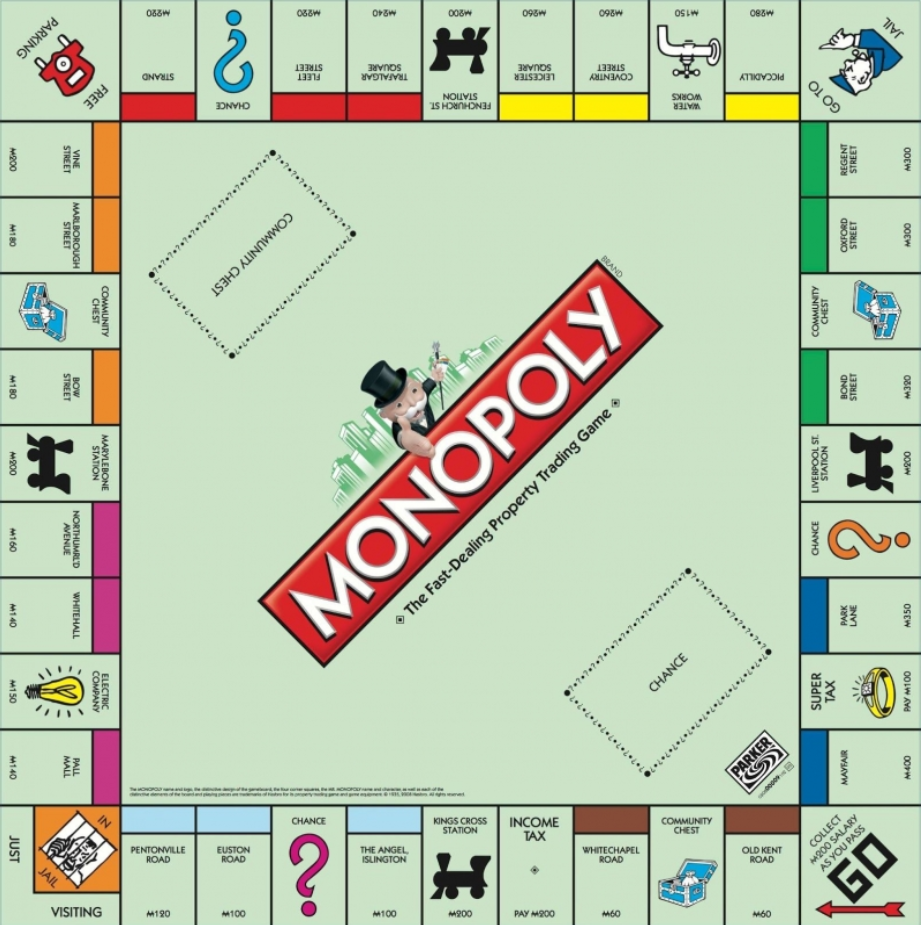
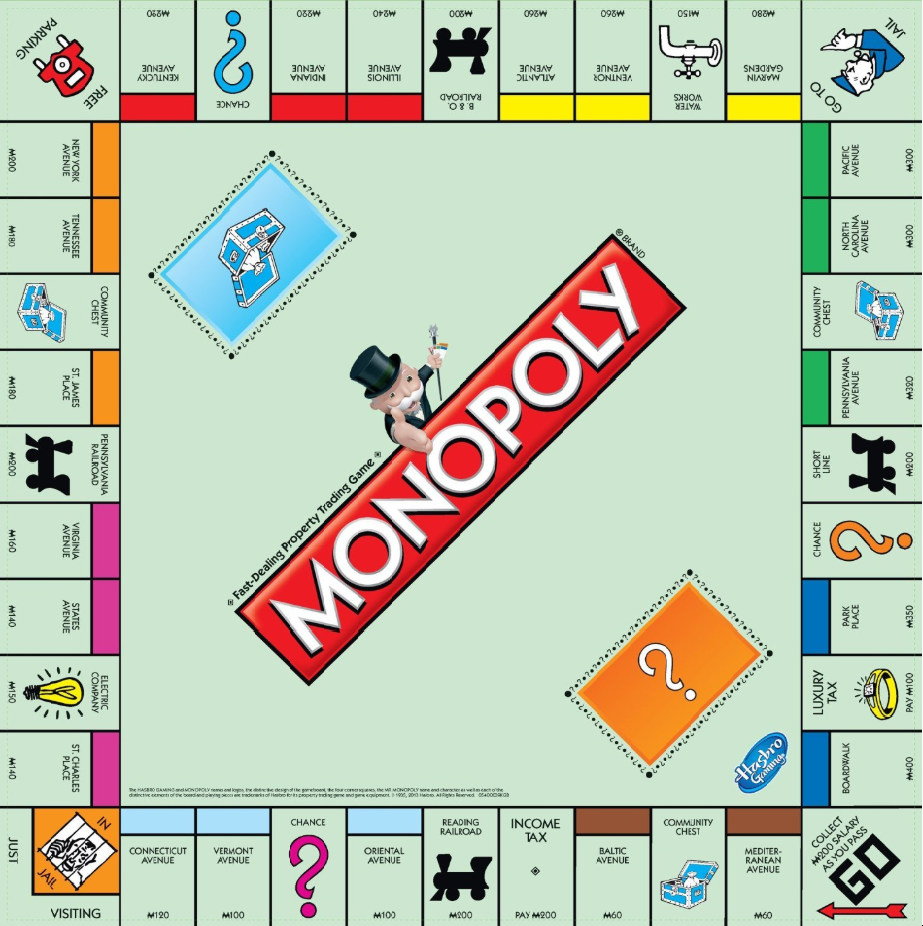
Added move function and updated pic

diff --git a/CIS350_Monopoly_Project/src/Monopoly/BoardPanel.java b/CIS350_Monopoly_Project/src/Monopoly/BoardPanel.java
@@ -14,7 +14,7 @@ import javax.swing.SwingConstants;
 
 public class BoardPanel extends JPanel{
 	/** Icon for a monopoly board. */
-	private ImageIcon boardpic = new ImageIcon("MonopolyImage.png");
+	private ImageIcon boardpic = new ImageIcon("MonopolyImage5.png");
 	
 	/** Image for a monopoly board. */
 	private Image img = boardpic.getImage();
@@ -24,7 +24,7 @@ public class BoardPanel extends JPanel{
 	private int playernumonproperty[] = new int[40];
 	
 
-    private PropertyPiecePlacement[] piecePlacements;
+    public PropertyPiecePlacement[] piecePlacements;
 	 
 	
 	
@@ -75,6 +75,15 @@ public class BoardPanel extends JPanel{
 			movePlayer(3,i,0);
 			movePlayer(4,i,0);
 		}
+//		
+//		movePlayer(1,3,0);
+//		movePlayer(3,3,0);
+//		movePlayer(4,3,0);
+//		movePlayer(2,3,0);
+		
+		
+		
+		
 		
 	}
 
@@ -87,38 +96,233 @@ public class BoardPanel extends JPanel{
 		int col = 0;
 		
 		placePiece(piecePlacements[toproperty],playernum);
-//		removePiece(piecePlacements[fromproperty],playernum);
+		removePiece(piecePlacements[fromproperty],playernum);
 		
 		
 	}
 	
 	public void placePiece(PropertyPiecePlacement property, int playernum) {
-		switch(findPlayersOnProperty(property)) {
-		case 0: 
+		if(matrix[property.getNoPieceRow()]
+		[property.getNoPieceCol()].getText().contentEquals("")) {
 			matrix[property.getNoPieceRow()]
-					[property.getNoPieceCol()].setForeground(playerColor(playernum));
+			[property.getNoPieceCol()].setForeground(playerColor(playernum));
 			matrix[property.getNoPieceRow()]
-					[property.getNoPieceCol()].setText(""+playernum);
-			return;
-		case 1: 
-			matrix[property.getOnePieceRow()]
-					[property.getOnePieceCol()].setForeground(playerColor(playernum));
-			matrix[property.getOnePieceRow()]
-					[property.getOnePieceCol()].setText(""+playernum);
-			return;
-		case 2: 
-			matrix[property.getTwoPieceRow()]
-					[property.getTwoPieceCol()].setForeground(playerColor(playernum));
-			matrix[property.getTwoPieceRow()]
-					[property.getTwoPieceCol()].setText(""+playernum);
-			return;
-		case 3: 
-			matrix[property.getThreePieceRow()]
-					[property.getThreePieceCol()].setForeground(playerColor(playernum));
-			matrix[property.getThreePieceRow()]
-					[property.getThreePieceCol()].setText(""+playernum);
-			return;
+				[property.getNoPieceCol()].setText(""+playernum);
 		}
+		else if(matrix[property.getOnePieceRow()]
+				[property.getOnePieceCol()].getText().contentEquals("")) {
+					matrix[property.getOnePieceRow()]
+					[property.getOnePieceCol()].setForeground(playerColor(playernum));
+					matrix[property.getOnePieceRow()]
+						[property.getOnePieceCol()].setText(""+playernum);
+		}
+		else if(matrix[property.getTwoPieceRow()]
+				[property.getTwoPieceCol()].getText().contentEquals("")) {
+					matrix[property.getTwoPieceRow()]
+					[property.getTwoPieceCol()].setForeground(playerColor(playernum));
+					matrix[property.getTwoPieceRow()]
+						[property.getTwoPieceCol()].setText(""+playernum);
+		}
+		else {
+					matrix[property.getThreePieceRow()]
+					[property.getThreePieceCol()].setForeground(playerColor(playernum));
+					matrix[property.getThreePieceRow()]
+						[property.getThreePieceCol()].setText(""+playernum);
+		}
+
+//		switch(findPlayersOnProperty(property)) {
+//		case 0: 
+//			matrix[property.getNoPieceRow()]
+//					[property.getNoPieceCol()].setForeground(playerColor(playernum));
+//			matrix[property.getNoPieceRow()]
+//					[property.getNoPieceCol()].setText(""+playernum);
+//			return;
+//		case 1: 
+//			matrix[property.getOnePieceRow()]
+//					[property.getOnePieceCol()].setForeground(playerColor(playernum));
+//			matrix[property.getOnePieceRow()]
+//					[property.getOnePieceCol()].setText(""+playernum);
+//			return;
+//		case 2: 
+//			matrix[property.getTwoPieceRow()]
+//					[property.getTwoPieceCol()].setForeground(playerColor(playernum));
+//			matrix[property.getTwoPieceRow()]
+//					[property.getTwoPieceCol()].setText(""+playernum);
+//			return;
+//		case 3: 
+//			matrix[property.getThreePieceRow()]
+//					[property.getThreePieceCol()].setForeground(playerColor(playernum));
+//			matrix[property.getThreePieceRow()]
+//					[property.getThreePieceCol()].setText(""+playernum);
+//			return;
+//		}
+		
+	}
+	
+	public void removePiece(PropertyPiecePlacement property, int playernum) {
+		if(matrix[property.getNoPieceRow()]
+				[property.getNoPieceCol()].getText().contentEquals(""+playernum)) 
+			matrix[property.getNoPieceRow()]
+					[property.getNoPieceCol()].setText("");
+		else if(matrix[property.getOnePieceRow()]
+				[property.getOnePieceCol()].getText().contentEquals(""+playernum)) 
+			matrix[property.getOnePieceRow()]
+					[property.getOnePieceCol()].setText("");
+		else if(matrix[property.getTwoPieceRow()]
+				[property.getTwoPieceCol()].getText().contentEquals(""+playernum)) 
+			matrix[property.getTwoPieceRow()]
+					[property.getTwoPieceCol()].setText("");
+		else matrix[property.getThreePieceRow()]
+				[property.getThreePieceCol()].setText("");
+//				
+//				matrix[property.getNoPieceRow()]
+//						[property.getNoPieceCol()].setText(
+//			
+//			matrix[property.getNoPieceRow()]
+//					[property.getNoPieceCol()].setText(
+//		switch(findPlayersOnProperty(property)) {
+//		case 1: 
+//			matrix[property.getNoPieceRow()]
+//					[property.getNoPieceCol()].setText("");
+//			return;
+//		case 2: 
+//			if(matrix[property.getNoPieceRow()]
+//					[property.getNoPieceCol()].getText().contentEquals(""+playernum)) {
+//				
+//				matrix[property.getNoPieceRow()]
+//						[property.getNoPieceCol()].setText(
+//							matrix[property.getOnePieceRow()]
+//								[property.getOnePieceCol()].getText());
+//				matrix[property.getNoPieceRow()]
+//						[property.getNoPieceCol()].setForeground(
+//							matrix[property.getOnePieceRow()]
+//								[property.getOnePieceCol()].getForeground());
+//				matrix[property.getOnePieceRow()]
+//						[property.getOnePieceCol()].setText("");
+//			}
+//			
+//			else matrix[property.getOnePieceRow()]
+//					[property.getOnePieceCol()].setText("");
+//			
+//		case 3: 
+//			if(matrix[property.getNoPieceRow()]
+//					[property.getNoPieceCol()].getText().contentEquals(""+playernum)) {
+//				
+//				matrix[property.getNoPieceRow()]
+//						[property.getNoPieceCol()].setText(
+//							matrix[property.getOnePieceRow()]
+//								[property.getOnePieceCol()].getText());
+//				matrix[property.getNoPieceRow()]
+//						[property.getNoPieceCol()].setForeground(
+//							matrix[property.getOnePieceRow()]
+//								[property.getOnePieceCol()].getForeground());
+//				matrix[property.getOnePieceRow()]
+//						[property.getOnePieceCol()].setText(
+//							matrix[property.getTwoPieceRow()]
+//								[property.getTwoPieceCol()].getText());
+//				matrix[property.getOnePieceRow()]
+//						[property.getOnePieceCol()].setForeground(
+//							matrix[property.getTwoPieceRow()]
+//								[property.getTwoPieceCol()].getForeground());
+//				matrix[property.getTwoPieceRow()]
+//						[property.getTwoPieceCol()].setText("");
+//			}
+//			
+//			else if(matrix[property.getOnePieceRow()]
+//					[property.getOnePieceCol()].getText().contentEquals(""+playernum)) {
+//				
+//				matrix[property.getOnePieceRow()]
+//						[property.getOnePieceCol()].setText(
+//							matrix[property.getTwoPieceRow()]
+//								[property.getTwoPieceCol()].getText());
+//				matrix[property.getOnePieceRow()]
+//						[property.getOnePieceCol()].setForeground(
+//							matrix[property.getTwoPieceRow()]
+//								[property.getTwoPieceCol()].getForeground());
+//				matrix[property.getTwoPieceRow()]
+//						[property.getTwoPieceCol()].setText("");
+//			}
+//			
+//			else matrix[property.getTwoPieceRow()]
+//					[property.getTwoPieceCol()].setText("");
+//		
+//		case 4:
+//			if(matrix[property.getNoPieceRow()]
+//					[property.getNoPieceCol()].getText().contentEquals(""+playernum)) {
+//				System.out.println("HERE");
+//				
+//				matrix[property.getNoPieceRow()]
+//						[property.getNoPieceCol()].setText(
+//							matrix[property.getOnePieceRow()]
+//								[property.getOnePieceCol()].getText());
+//				matrix[property.getNoPieceRow()]
+//						[property.getNoPieceCol()].setForeground(
+//							matrix[property.getOnePieceRow()]
+//								[property.getOnePieceCol()].getForeground());
+//				matrix[property.getOnePieceRow()]
+//						[property.getOnePieceCol()].setText(
+//							matrix[property.getTwoPieceRow()]
+//								[property.getTwoPieceCol()].getText());
+//				matrix[property.getOnePieceRow()]
+//						[property.getOnePieceCol()].setForeground(
+//							matrix[property.getTwoPieceRow()]
+//								[property.getTwoPieceCol()].getForeground());
+//				matrix[property.getTwoPieceRow()]
+//						[property.getTwoPieceCol()].setText(
+//							matrix[property.getThreePieceRow()]
+//								[property.getThreePieceCol()].getText());
+//				matrix[property.getTwoPieceRow()]
+//						[property.getTwoPieceCol()].setForeground(
+//							matrix[property.getThreePieceRow()]
+//								[property.getThreePieceCol()].getForeground());
+//				matrix[property.getThreePieceRow()]
+//						[property.getThreePieceCol()].setText("");
+//			}
+//			
+//			else if(matrix[property.getOnePieceRow()]
+//					[property.getOnePieceCol()].getText().contentEquals(""+playernum)) {
+//				
+//				matrix[property.getOnePieceRow()]
+//						[property.getOnePieceCol()].setText(
+//							matrix[property.getTwoPieceRow()]
+//								[property.getTwoPieceCol()].getText());
+//				matrix[property.getOnePieceRow()]
+//						[property.getOnePieceCol()].setForeground(
+//							matrix[property.getTwoPieceRow()]
+//								[property.getTwoPieceCol()].getForeground());
+//				matrix[property.getTwoPieceRow()]
+//						[property.getTwoPieceCol()].setText(
+//							matrix[property.getThreePieceRow()]
+//								[property.getThreePieceCol()].getText());
+//				matrix[property.getTwoPieceRow()]
+//						[property.getTwoPieceCol()].setForeground(
+//							matrix[property.getThreePieceRow()]
+//								[property.getThreePieceCol()].getForeground());
+//				matrix[property.getThreePieceRow()]
+//						[property.getThreePieceCol()].setText("");
+//			}
+//			
+//			else if(matrix[property.getTwoPieceRow()]
+//					[property.getTwoPieceCol()].getText().contentEquals(""+playernum)) {
+//				
+//				matrix[property.getTwoPieceRow()]
+//						[property.getTwoPieceCol()].setText(
+//							matrix[property.getThreePieceRow()]
+//								[property.getThreePieceCol()].getText());
+//				matrix[property.getTwoPieceRow()]
+//						[property.getTwoPieceCol()].setForeground(
+//							matrix[property.getThreePieceRow()]
+//								[property.getThreePieceCol()].getForeground());
+//				matrix[property.getThreePieceRow()]
+//						[property.getThreePieceCol()].setText("");
+//			}
+//			
+//			else matrix[property.getThreePieceRow()]
+//					[property.getThreePieceCol()].setText("");
+//		}
+		
+		
+			
 		
 	}
 	

diff --git a/CIS350_Monopoly_Project/src/Monopoly/MonopolyPanel.java b/CIS350_Monopoly_Project/src/Monopoly/MonopolyPanel.java
@@ -98,7 +98,8 @@ public class MonopolyPanel extends JPanel {
 		public void actionPerformed(ActionEvent e) {
 
 			if(e.getSource() == rollButton) {
-				
+				board.movePlayer(1,5,3);
+				board.movePlayer(2,5,3);
 			}
 
 			if(e.getSource() == endTurnButton) {
